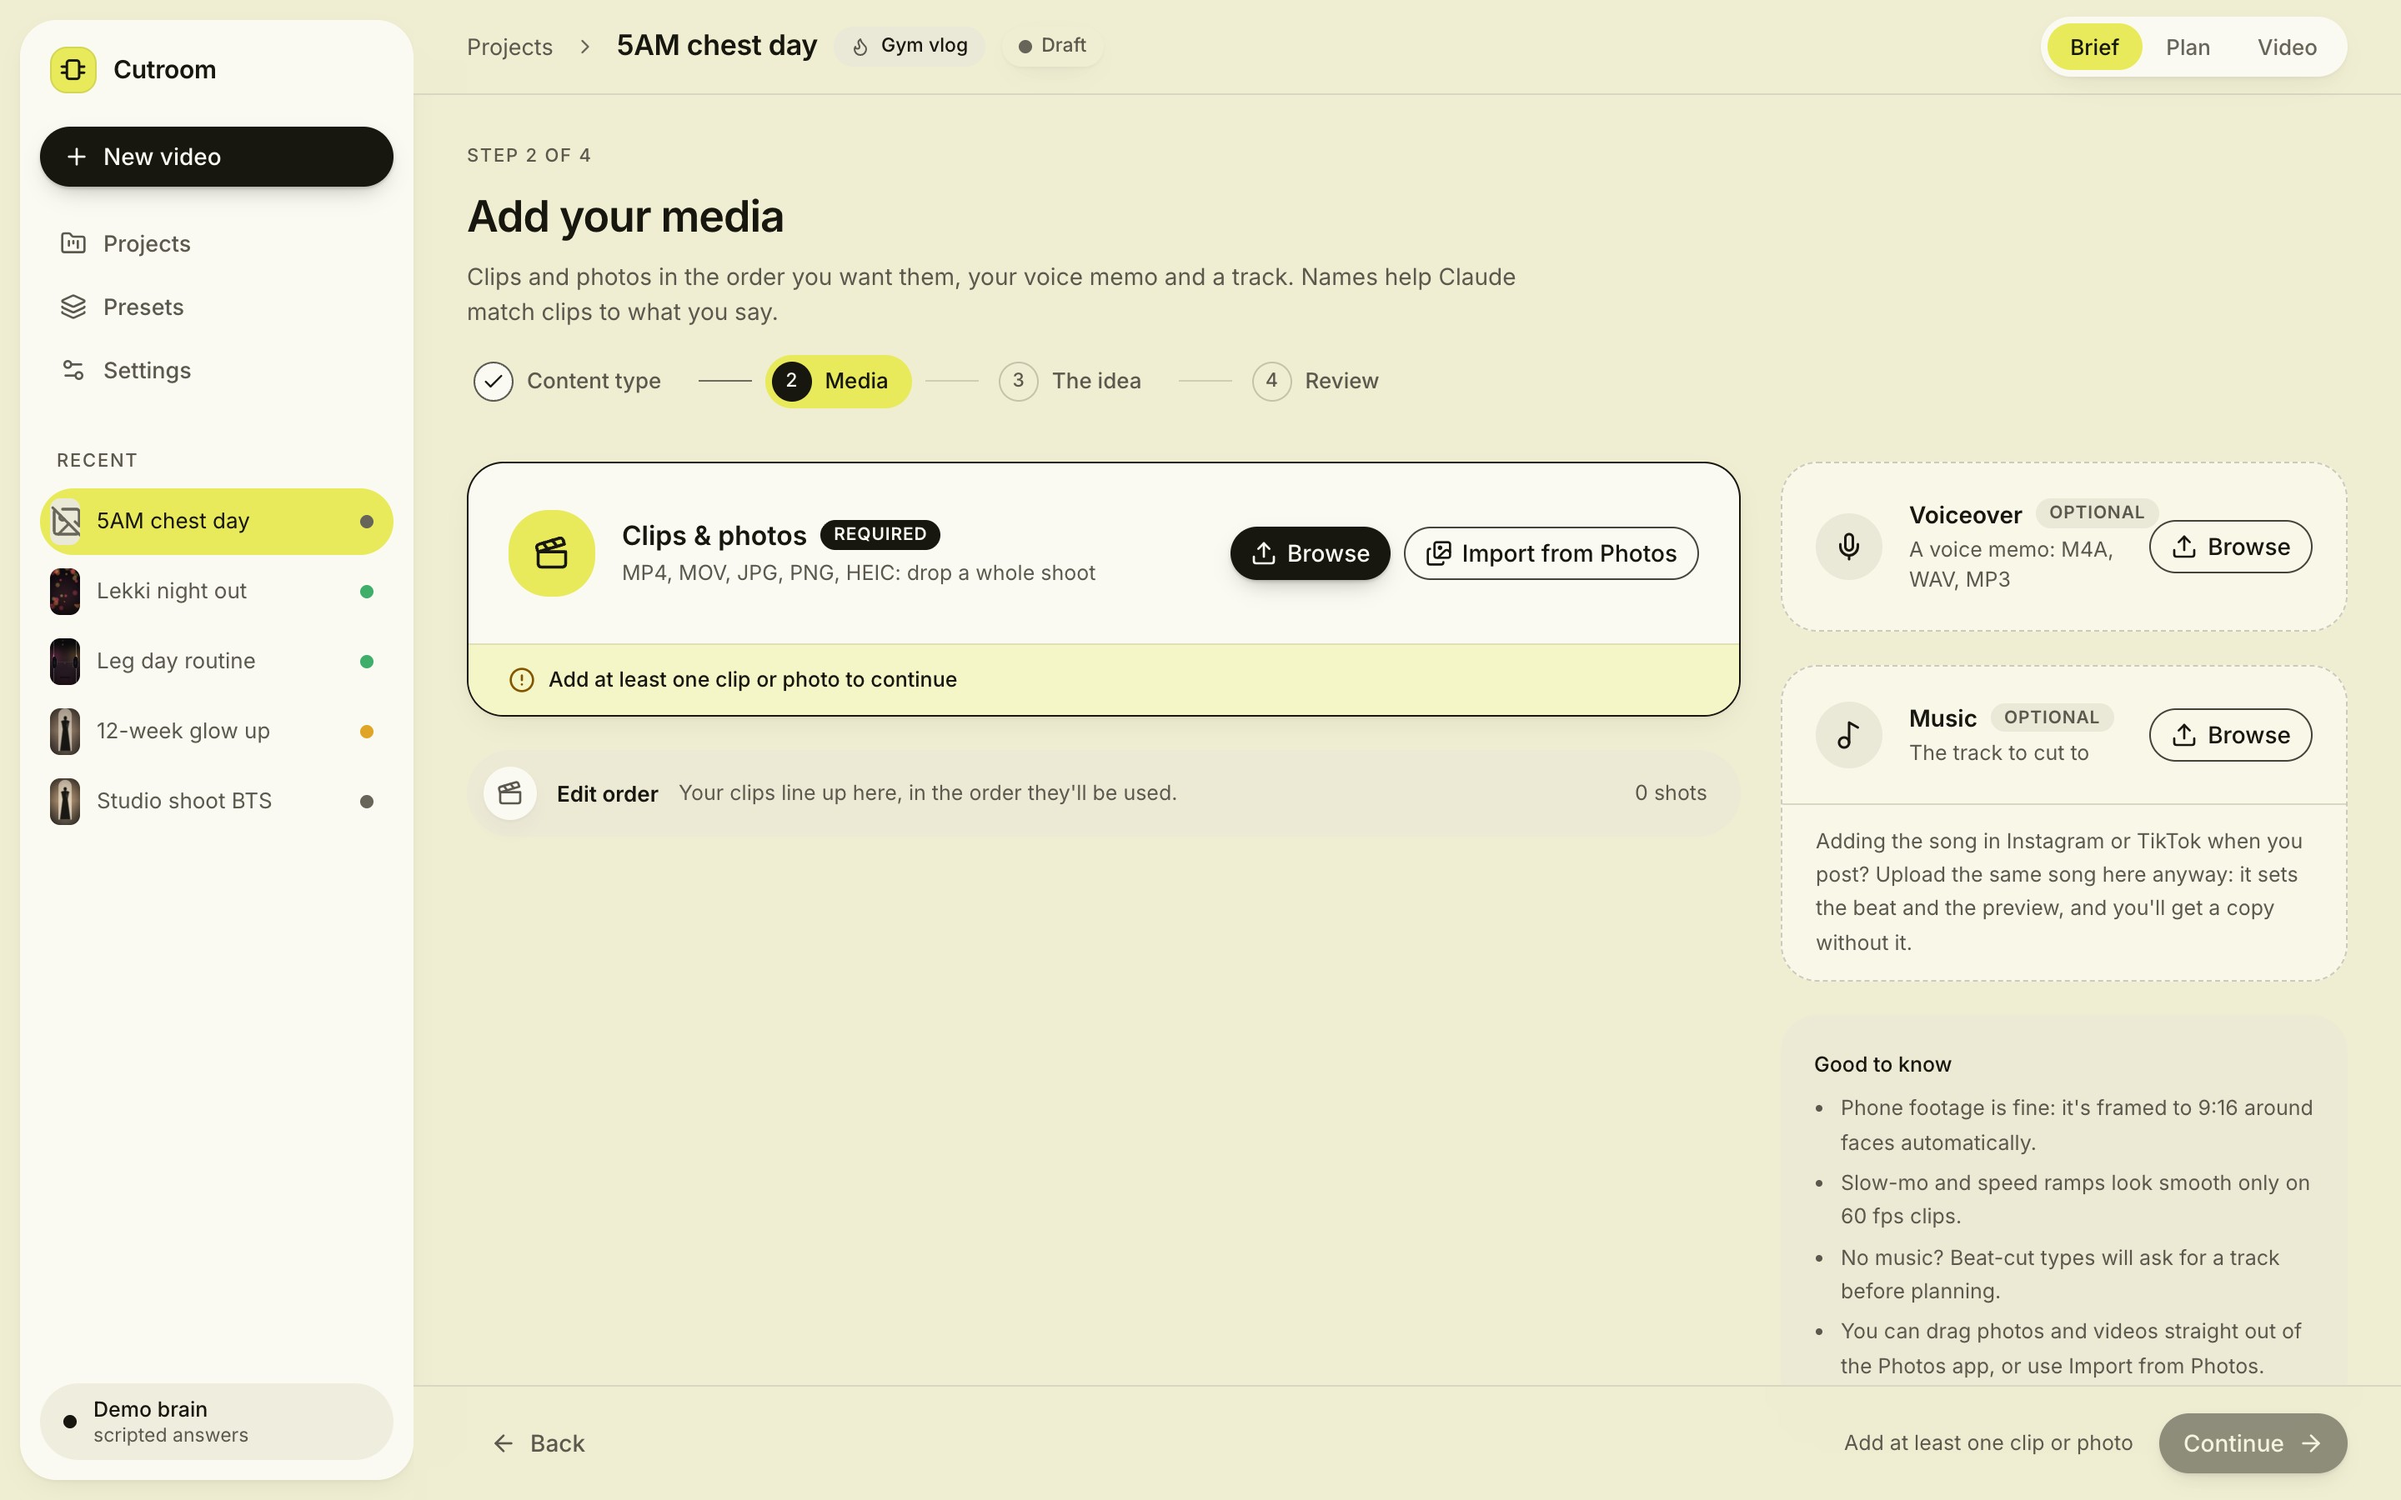
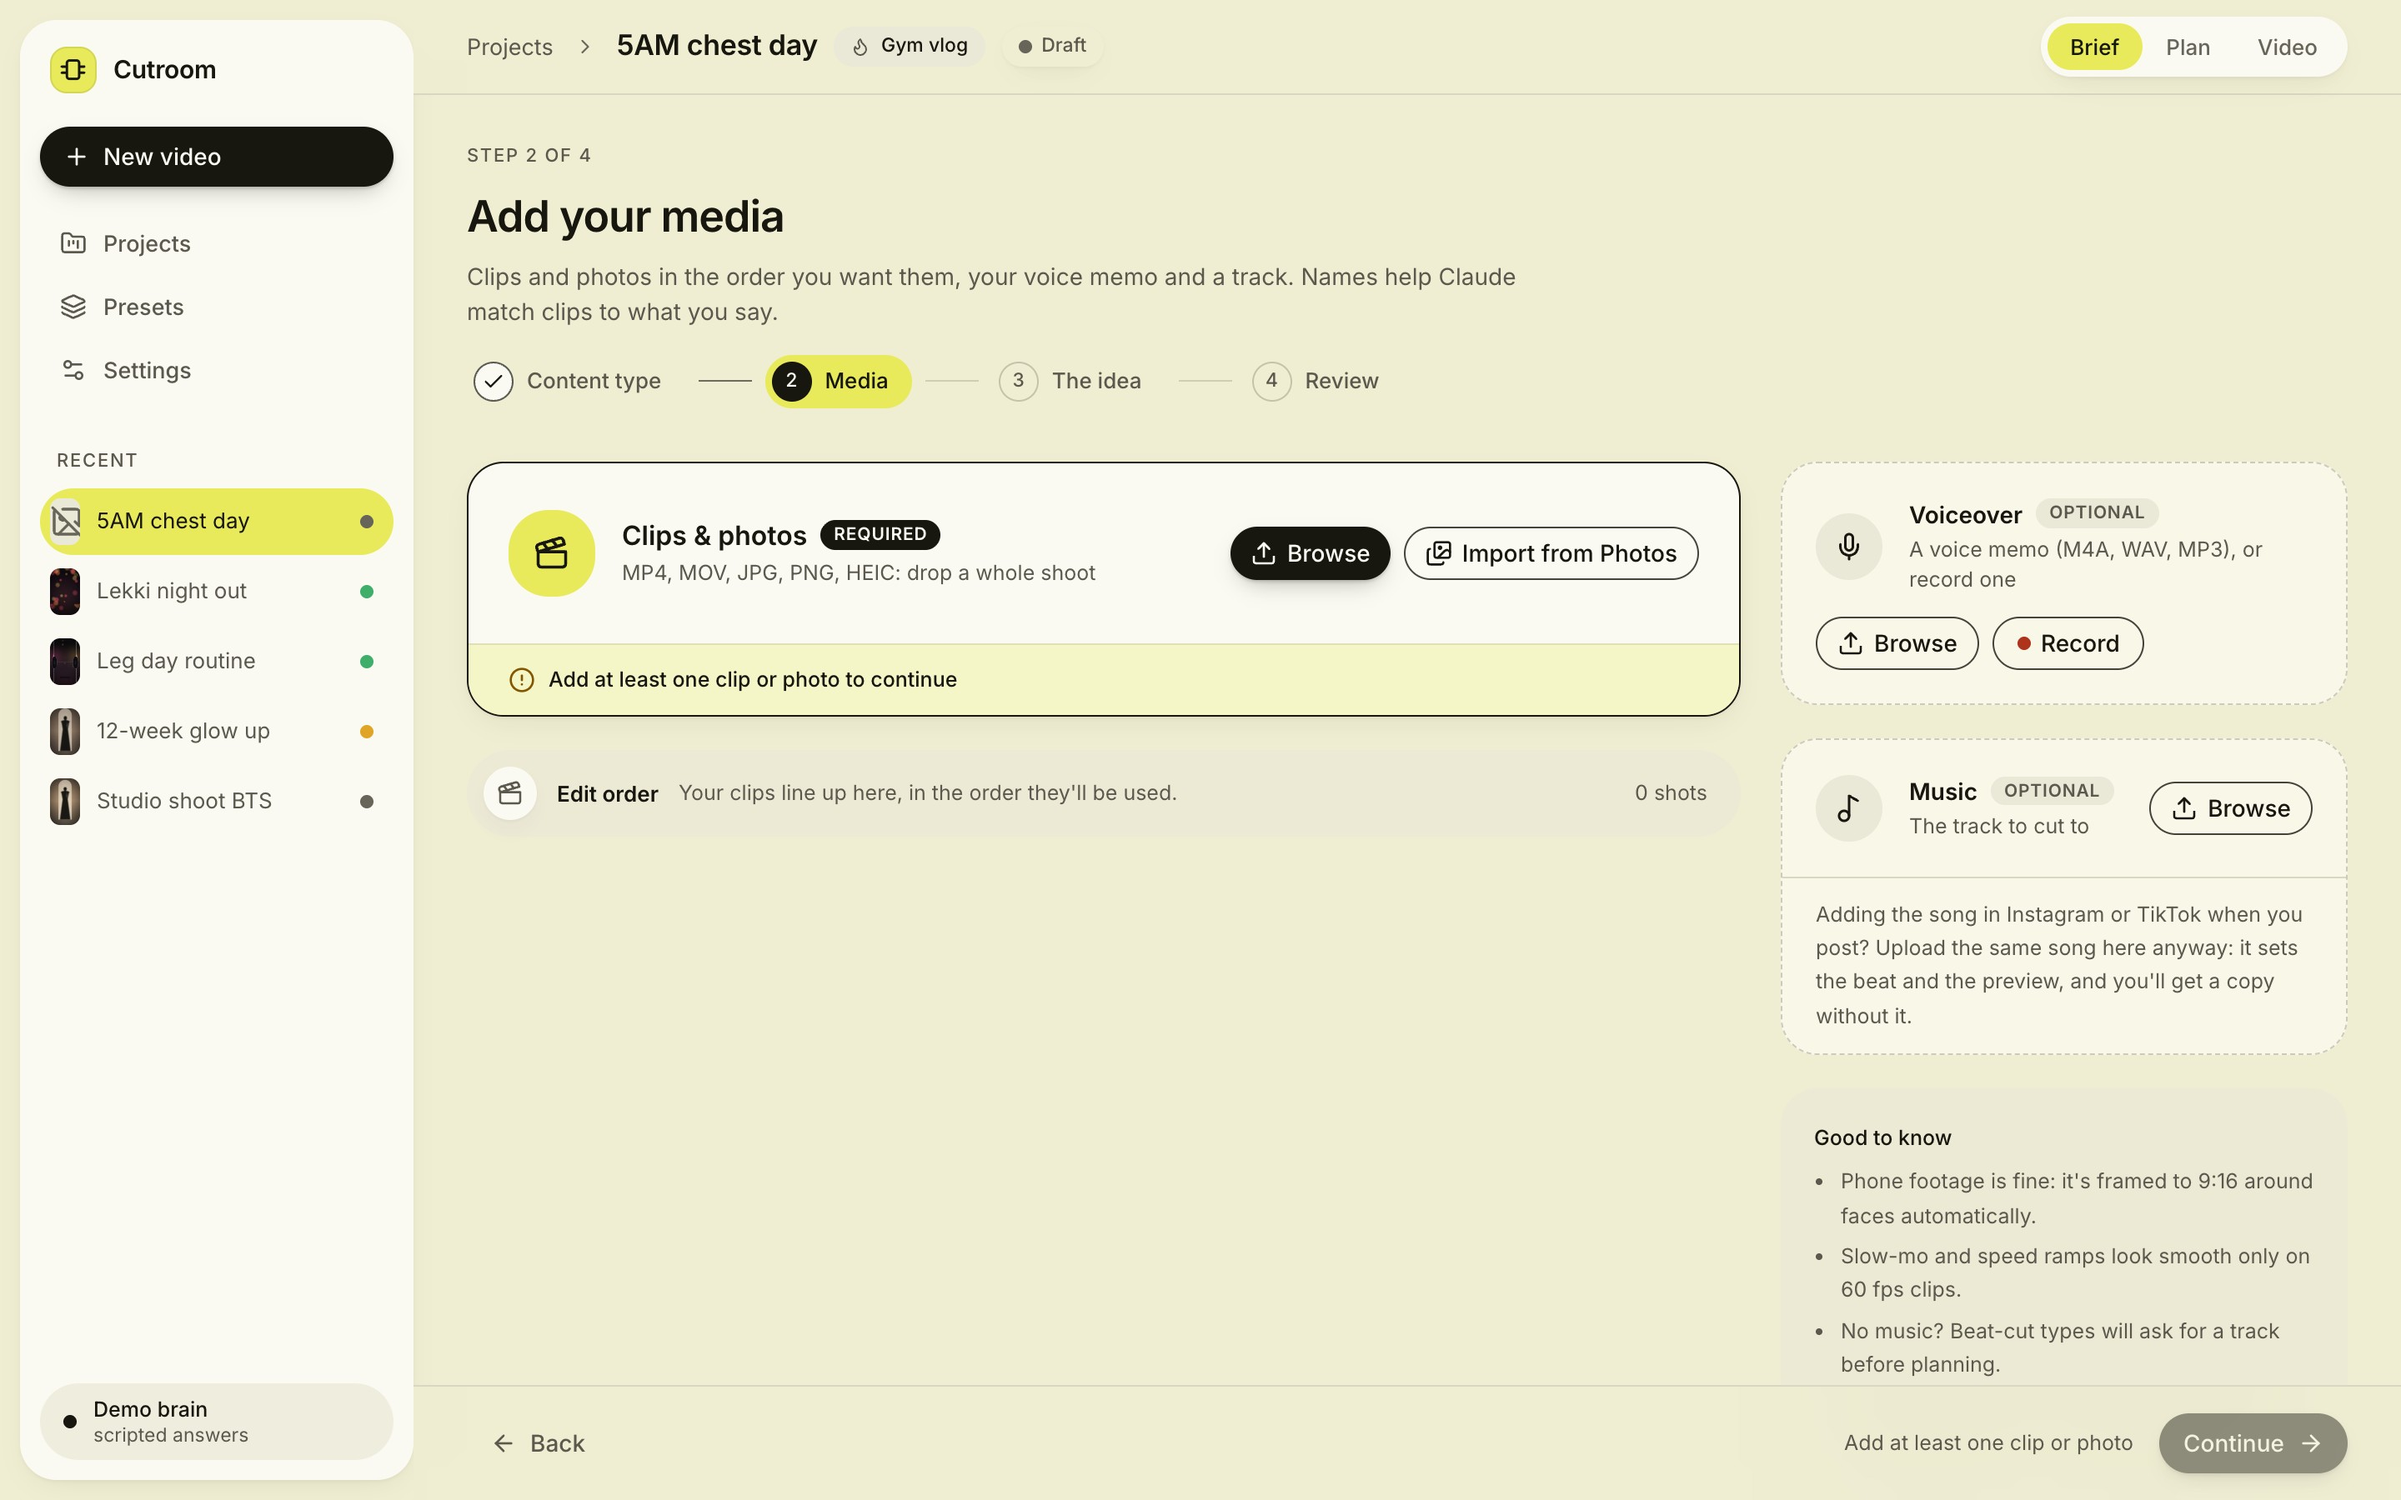
Docs: recording a voiceover, the takes API, component tests, new screenshots

diff --git a/README.md b/README.md
@@ -116,7 +116,9 @@ http://127.0.0.1:8000/docs).
 | ![Projects](docs/screenshots/01-projects.jpg) | ![New video: content type](docs/screenshots/02-new-video.jpg) |
 | **Projects**: every video with its status (draft, planning, needs review, rendering, done), live progress, search and a filter by content type | **New video, step 1**: the content type, grouped Lifestyle / Fashion / Gym |
 | ![Media, nothing added yet](docs/screenshots/03a-media-empty.jpg) | ![Media](docs/screenshots/03-media.jpg) |
-| **Step 2, before the first clip**: clips & photos is the one required card (Browse, or Import from Photos), voiceover and music are optional; the edit order waits as a slim bar and Continue stays off until there is a clip or photo | **Step 2, media**: drop clips and photos, a voice memo and a track; drag to reorder, click a name to rename it |
+| **Step 2, before the first clip**: clips & photos is the one required card (Browse, or Import from Photos), voiceover and music are optional; the edit order waits as a slim bar and Continue stays off until there is a clip or photo | **Step 2, media**: drop clips and photos, a voice memo (or record one) and a track; drag to reorder, click a name to rename it |
+| ![Recording a voiceover](docs/screenshots/03e-recording.jpg) | ![Takes](docs/screenshots/03f-takes.jpg) |
+| **Record a voiceover** from the Voiceover card: a live mic level with a hint (quiet / good / too loud), a running timer, Pause and Stop | **Takes**: listen back on the waveform, Re-record, Delete; **Use this** puts the picked take in the Voiceover slot, where it's cleaned up and transcribed like any voice memo |
 | ![The idea](docs/screenshots/04-idea.jpg) | ![The song](docs/screenshots/03b-music.jpg) |
 | **Step 3, the idea**: the brief as a form that autosaves; the preset's defaults are the placeholders, advanced fields fold away | **The song**: the waveform with the part the edit uses lit up (auto: just before the drop, or the strongest stretch), drag or slide to pick your own start, play from there; "I'll add this song in Instagram/TikTok when posting" |
 | ![Import from Photos](docs/screenshots/03c-photos.jpg) | ![Photos access](docs/screenshots/03d-photos-access.jpg) |
@@ -137,11 +139,11 @@ http://127.0.0.1:8000/docs).
 | **Brain**: Claude Code or the Anthropic API, with connection status and the system check | **Presets**: each content type's notes and defaults, editable |
 | ![Usage limit](docs/screenshots/19-usage-limit.jpg) | ![Claude revising](docs/screenshots/15-claude-revising.jpg) |
 | **When Claude can't work** (usage limit, logged out, not installed, no API key) a banner says what to do | **Revising**: your notes go to Claude, then straight to a new render |
-| ![Error screen](docs/screenshots/20-error-screen.jpg) |  |
-| **If a screen ever crashes**: a calm error screen inside the app with Go back / Reload and the technical details folded away |  |
+| ![Error screen](docs/screenshots/20-error-screen.jpg) | ![Mic blocked](docs/screenshots/03g-mic-blocked.jpg) |
+| **If a screen ever crashes**: a calm error screen inside the app with Go back / Reload and the technical details folded away | **Mic blocked?** How to allow it in Chrome (or in macOS, when it's the Mac saying no), then Try again |
 
 The screenshots come from a real end-to-end run against `./cutroom --demo`: synthetic footage, a `say` voice memo
-and a generated beat track went through the wizard, the pipeline (transcription, voice clean-up, beat detection,
+(recorded in the app's recorder, through Chrome's fake microphone) and a generated beat track went through the wizard, the pipeline (transcription, voice clean-up, beat detection,
 rendering) and the scripted brain. See [Development](#development) to regenerate them.
 
 ### Posting with the in-app sound
@@ -157,6 +159,17 @@ first frame. If you talk in the video, it reminds you to turn the song down in t
 Which part of the song the edit uses is yours to choose in the Music step: click or drag on the waveform, or use the
 slider, and play from there. Left on **Auto** it starts two bars before the drop that leads into the loudest part (or,
 without a drop, the loudest stretch as long as the video).
+
+### Recording a voiceover
+
+No voice memo yet? **Record** on the Voiceover card records one in the browser (the first time, Chrome asks for the
+mic). Record in a quiet room with the phone or mic about 20 cm away; the meter says when you're too quiet or too loud.
+Every take is kept in the project (`inputs/voiceover/takes/`), so they're still there after a refresh: listen back,
+re-record as often as you like, delete the ones you don't want. **Use this** uploads the take you pick through the
+same files endpoint as an imported memo, where it's converted to 48 kHz mono WAV, so the clean-up, transcription,
+voiceover mode and `vo_preview.wav` treat it exactly like one (using another take later swaps it in). The browser's
+call-style processing (echo cancellation, noise suppression, auto gain) is turned off: Cutroom's own clean-up does
+that job better.
 
 ### Import from Photos
 
@@ -210,6 +223,7 @@ curl -s -X POST "$API/projects/$ID/revise?wait=true" -H 'content-type: applicati
 | `POST /projects/{id}/analyse` · `plan` · `render` · `revise` · `reference` | background jobs |
 | `GET/PUT /projects/{id}/timeline` | the plan, resolved to output times (each shot knows its segment); save your own edits |
 | `GET /projects/{id}/voiceover`, `POST /projects/{id}/reveal` | voice preview + clean-up numbers; show a render in Finder |
+| `GET/POST /projects/{id}/takes`, `DELETE /projects/{id}/takes/{take}` | voiceover takes recorded in the app, kept until one is uploaded as the voiceover (`POST .../files` with `kind=voiceover`, `take=<id>`) |
 | `GET /projects/{id}/music` | the song: waveform, BPM, drops, the auto start and your pick (`PATCH` the brief's `music_start` / `music_in_app`) |
 | `GET /photos/status` · `POST /photos/refresh` · `GET /photos/albums` · `GET /photos/items` · `GET /photos/thumbnail/{id}` | the Mac Photos library (status says what to do without access) |
 | `POST /projects/{id}/photos/import` | a job: copy originals from Photos into the project, with what was skipped and why |
@@ -265,9 +279,10 @@ Paths to shared resources can be moved with `CUTROOM_ROOT`, `CUTROOM_WORKSPACE`,
 ## Development
 
 ```bash
-.venv/bin/python -m pytest        # 101 tests, ~25 s; never calls Claude (the brain is mocked) or reads your Photos library
+.venv/bin/python -m pytest        # 108 tests, ~35 s; never calls Claude (the brain is mocked) or reads your Photos library
 .venv/bin/ruff check .
 cd app && npm run lint            # the app's lint (also runs in npm run build); npm run gen:api regenerates its typed client
+cd app && npm test                # component tests (Vitest + jsdom): the voiceover recorder with a mocked mic
 ```
 
 `npm run lint` includes `cutroom/effect-returns` (app/eslint-rules/), which fails on any `useEffect` that can return
@@ -276,7 +291,9 @@ something other than a cleanup function: async effects, one-line effects like `u
 "destroy is not a function" (newer Chrome made `scrollTo()` return a Promise, which is how one slipped in).
 
 The end-to-end test generates tiny clips, a photo and a 120 BPM track, then plans, edits, renders, revises and
-renders again through the API.
+renders again through the API. `tests/test_takes.py` uploads recordings the way each browser's MediaRecorder makes
+them (Chrome's WebM Opus without a duration, Firefox's Ogg, Safari's MP4) and checks they become 48 kHz WAV
+voiceovers that the analysis and clean-up treat like any voice memo.
 
 The app is checked end to end in a real browser (headless Chrome via Puppeteer) against the demo brain:
 
@@ -284,6 +301,7 @@ The app is checked end to end in a real browser (headless Chrome via Puppeteer) 
 .venv/bin/python scripts/demo_media.py             # synthetic clips, photos, a voice memo, a track -> .demo/media
 ./cutroom --demo --no-open &
 node app/scripts/walkthrough.mjs                   # every screen, start to finish -> docs/screenshots/*.jpg
+                                                   # (the voiceover is recorded: Chrome's fake mic plays the demo memo)
 node app/scripts/check-interactions.mjs            # drag to reorder, swap from the bin, delete + undo, edit a label,
                                                    # drops the way the Photos app hands files over
 ```

diff --git a/app/README.md b/app/README.md
@@ -11,6 +11,7 @@ npm install
 npm run dev          # http://localhost:5173, expects the API on :8000 (CUTROOM_API_PORT to change)
 npm run gen:api      # regenerate src/api/schema.d.ts from the FastAPI OpenAPI schema (no server needed)
 npm run typecheck
+npm test             # component tests: Vitest + jsdom + Testing Library (src/**/*.test.tsx)
 npm run lint         # rule tests + eslint (cutroom/effect-returns, react-hooks/rules-of-hooks)
 npm run build        # lint, then tsc, then vite build
 ```
@@ -39,6 +40,23 @@ Every screen sits under a React Router `errorElement` (`components/ErrorScreen.t
 screen inside the app (Go back, Reload, technical details with a copy button) instead of React Router's default
 page; an `AppErrorBoundary` catches anything outside the router. In dev, `/__crash` throws on purpose to show it.
 
+### Tests
+
+`npm test` runs the component tests in jsdom. jsdom has no microphone and no network, so the tests bring their own:
+`src/test/setup.ts` swaps `fetch`, `Request` and `XMLHttpRequest` for a fake API (`src/test/server.ts`: a test
+registers `"POST /api/projects/p1/takes"` handlers and every call is recorded), and the recorder test
+(`pages/project/setup/VoiceRecorder.test.tsx`) mocks `getUserMedia`, `MediaRecorder` and the Web Audio meter. The
+swaps happen in the setup file because the API client keeps the `fetch` and `Request` it finds when it's imported.
+
+### The voiceover recorder
+
+`lib/recorder.ts` (`useRecorder`) wraps the mic: `getUserMedia` with the browser's call processing off, MediaRecorder
+(WebM Opus, or MP4 AAC in Safari), an AnalyserNode for the level meter, a timer that skips pauses, and a level hint.
+It never throws: a mic that can't be opened becomes a `problem` (`denied`, `denied-system` for macOS, `no-mic`,
+`busy`, `unsupported`, `insecure`) that `VoiceRecorder.tsx` explains with steps and Try again. Each take is saved to
+the project on Stop (`POST /projects/{id}/takes`, remuxed so it seeks); Use this fetches it back and uploads it to the
+Voiceover slot through `POST /projects/{id}/files` with its take id, the same path as an imported voice memo.
+
 ## Layout
 
 ```
@@ -46,9 +64,10 @@ src/
   api/          schema.d.ts (generated), client.ts (typed openapi-fetch client, errors, uploads with progress,
                 media URLs), queries.ts (TanStack Query hooks), jobs.ts (live job progress over the WebSocket)
   components/   app shell + sidebar, Claude banner, badges, thumbnails, video player, caption preview, shadcn/ui
-  lib/          presets (groups, icons, defaults), status mapping, timeline edits, formatting
-  pages/        Home, NewVideo, Settings, Presets, and project/: setup wizard, questions, job progress,
-                timeline review (bin · monitor · inspector · track), result
+  lib/          presets (groups, icons, defaults), status mapping, timeline edits, formatting, the mic recorder
+  pages/        Home, NewVideo, Settings, Presets, and project/: setup wizard (media step, voiceover recorder,
+                Photos picker, song), questions, job progress, timeline review (bin · monitor · inspector · track), result
+  test/         component-test setup: the fake API, jsdom gaps
 scripts/        gen-api.mjs, walkthrough.mjs (end-to-end run with the demo brain + screenshots),
                 check-interactions.mjs (drag and drop, undo, edits), browser.mjs (shared: launch, error capture,
                 client-side navigation "hops")
